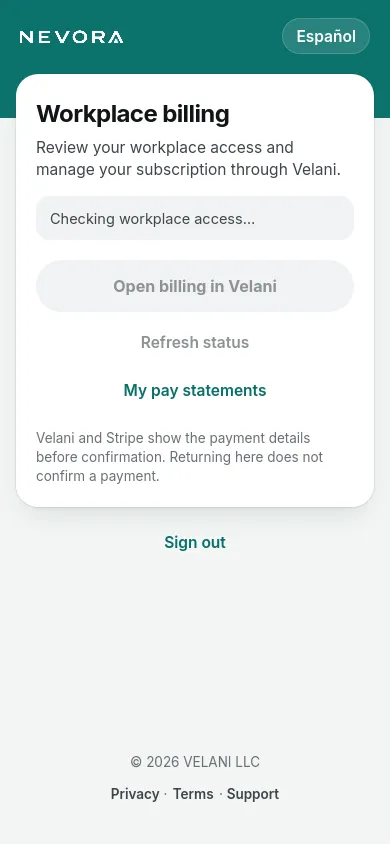
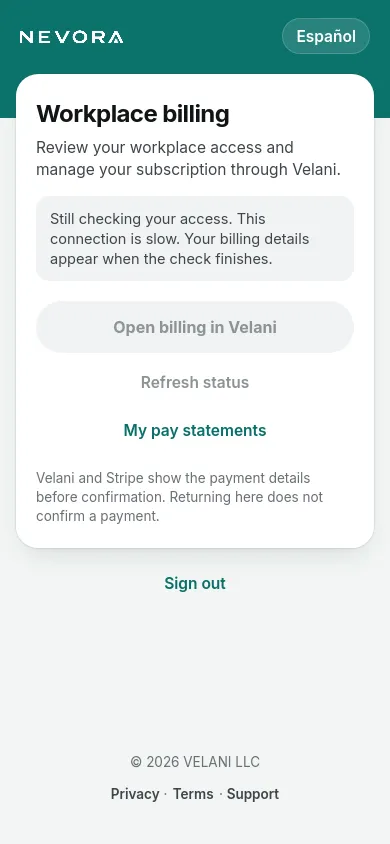
J18 states: slow, Manager and Employee re-captured after the polish; report updated
Claude-Session: https://claude.ai/code/session_01N2UNZDUKk8Yq2sFpKsicsx

Changed region(s): [[0.0923, 0.2464, 0.9231, 0.7085]]

diff --git a/docs/handoffs/2026-11-23-phase2-cloud/reports/j18-states.md b/docs/handoffs/2026-11-23-phase2-cloud/reports/j18-states.md
@@ -7,6 +7,13 @@ Branch `claude-codex-collab-nevora-batch-public`, with `claude-codex-collab-nevo
 |---|---|
 | `7c3d1bf9` | Code: `src/components/commerce-recovery/billing.tsx`. When the status can't be read (failed, or after a lapse), the filled “Refresh status” now comes first, above the outlined “Open billing in Velani”, in reading and focus order. Test: `billing-order.test.tsx` (fails before the change). No wording changed. |
 
+| `a19b39a6` | Code: `src/app/app/billing/page.tsx`. On the Manager and Employee page, “My pay statements” (and Try again, when shown) sit in the same actions block as the Owner's, so they have its `--b-space-20` gap under the paragraph. Test in `recovery.test.tsx` (fails before the change). No wording changed. |
+| `c8597c51` | Code: `billing.tsx`. A status check still running after 2.5 s (S-01's threshold, the scoped read frame's `STUCK_MS`) replaces “Checking workplace access…” in the same status line with Jose's wording (option B). EN: “Still checking your access. This connection is slow. Your billing details appear when the check finishes.” ES: “Seguimos comprobando tu acceso. La conexión está lenta. Los detalles de facturación aparecen cuando termine la comprobación.” Test: `billing-slow.test.tsx`. |
+
+The polish commits came after the first capture. The slow, Manager and Employee views were captured again on `c8597c51`
+in both browsers (24 views, replacing the earlier ones): no overflow, overlap or repeats; axe 0; rings and 44px on every
+stop.
+
 The shots commit (this report, `shots/j18-states/rows.json` and 56 webp files at quality 80) comes last.
 
 ## How it was checked
@@ -45,7 +52,7 @@ The shots commit (this report, `shots/j18-states/rows.json` and 56 webp files at
 | Export only | Español › Open billing in Velani (filled) › Refresh status › My pay statements › Sign out › Privacy › Terms › Support |
 | Owner denied | Español › Refresh status › My pay statements › Sign out › footer |
 | Manager, Employee | Español › My pay statements › Sign out › footer |
-| Slow | Español › My pay statements › Sign out › footer (Open billing and Refresh are disabled while it checks) |
+| Slow | Español › My pay statements › Sign out › footer (Open billing and Refresh are disabled while it checks; from 2.5 s the status line says it is still checking) |
 | Failed, Lapse | Español › **Refresh status (filled)** › Open billing in Velani (outlined) › My pay statements › Sign out › footer |
 
 - **Lapse**: the paid details (plan, people, dates) are withdrawn when the 15 s window ends, and the page shows the same
@@ -63,11 +70,11 @@ Blocking: none left. Fixed in `7c3d1bf9`:
 1. [Hierarchy] Failed and lapse: the state's one filled button (Refresh status) sat below the outlined Open billing
    and came second in focus order. It now comes first, as the filled button does in every other state.
 
-Polish (left as is)
-2. [Spacing] Manager and Employee page at 320: “My pay statements” sits closer under the paragraph than the Owner's
-   actions do under theirs. The non-Owner page doesn't use the actions block's top margin. Seen in the shots, not measured.
-3. [States] Slow: “Checking workplace access…” doesn't change between 3 s and the 10 s cut-off. The page gives no
-   sign that the check is taking longer than usual.
+Polish, done in this batch (Jose, Nov 24)
+2. [Spacing] Manager and Employee page: “My pay statements” sat close under the paragraph. It now has the Owner page's
+   actions gap (`a19b39a6`).
+3. [States] Slow: the page gave no sign that the check was taking longer than usual. From 2.5 s it says it is still
+   checking (`c8597c51`).
 
 States: Empty ✓ (Manager, Employee) · Loading ✓ (slow) · Error ✓ (failed, Owner denied, export only) · Success (in `j18-billing.md`) ·
 Edge ✓ (lapse, 320, 200% text, WebKit)
